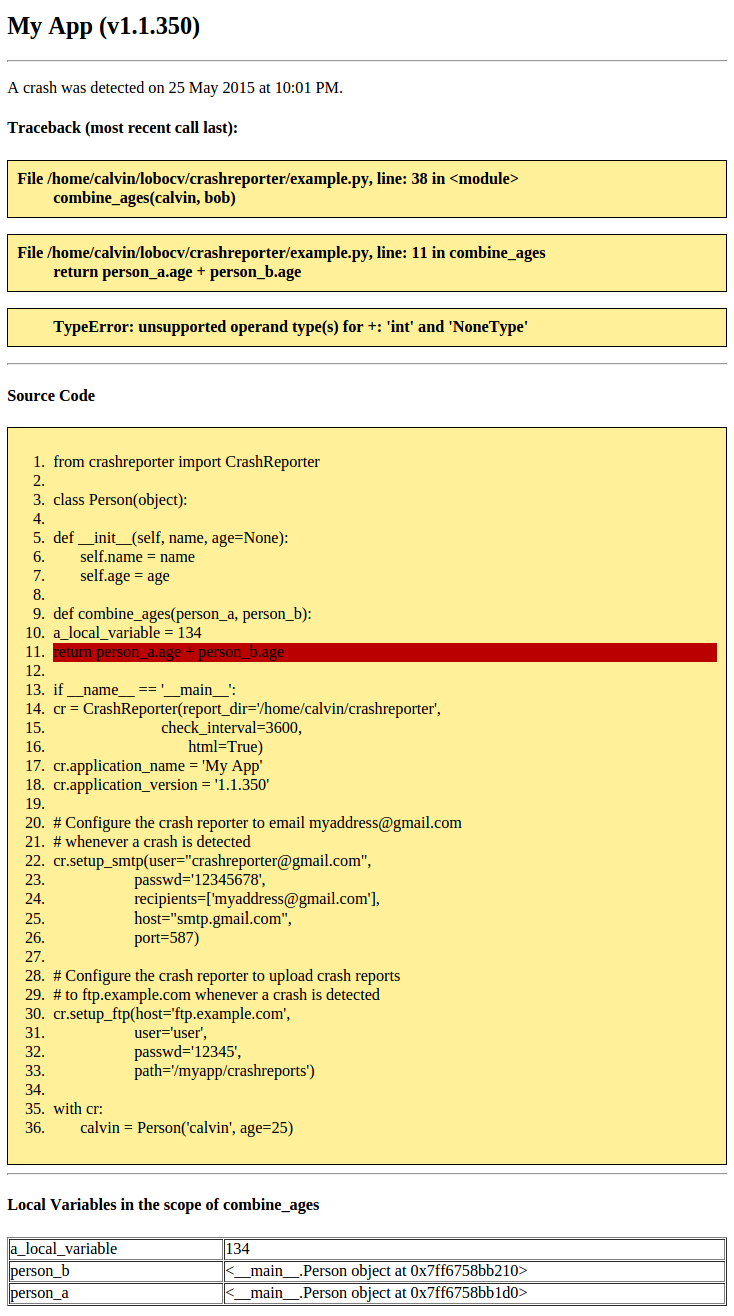
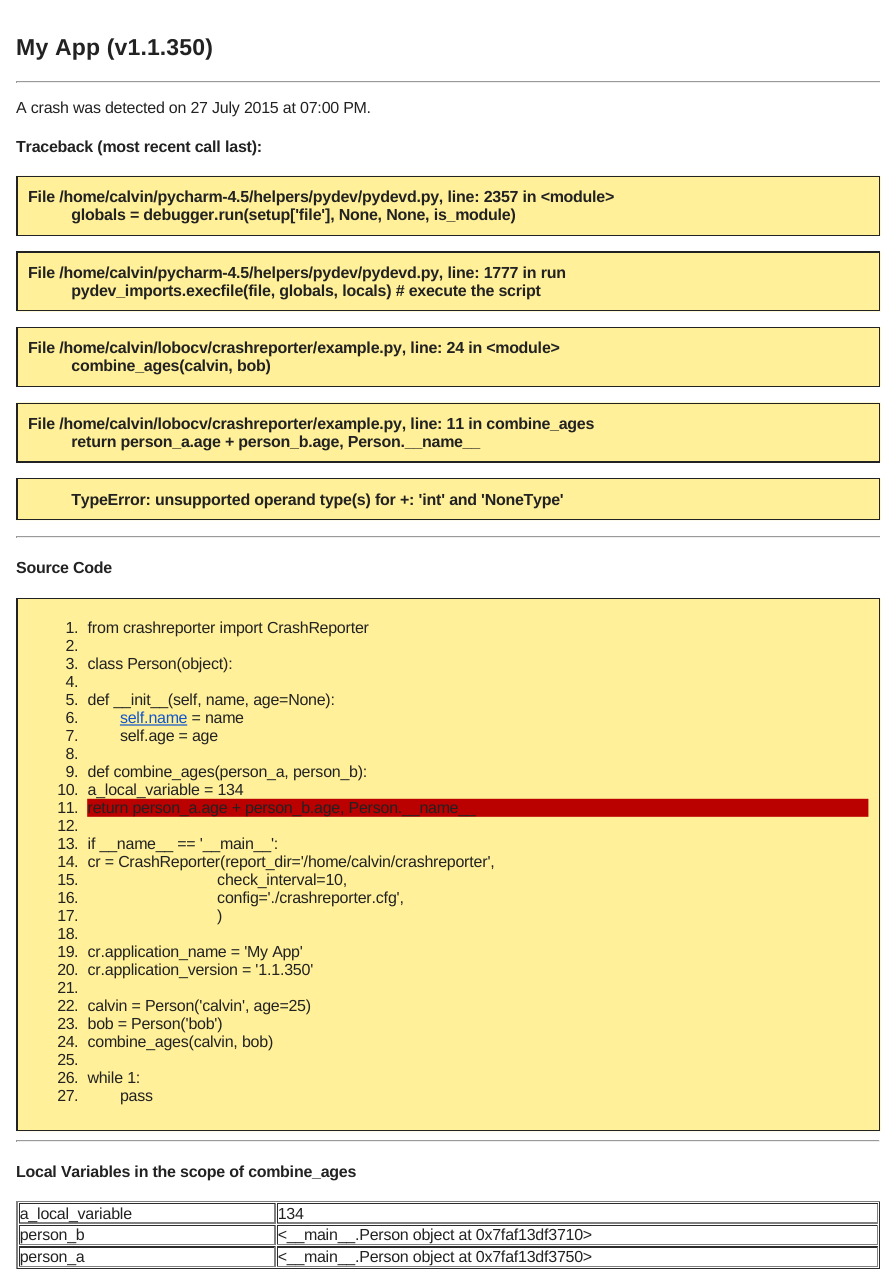
updated example.png and added html example

diff --git a/example_report.html b/example_report.html
@@ -1,0 +1,228 @@
+<!DOCTYPE html>
+<html>
+<head lang="en">
+    <meta charset="UTF-8">
+    <title></title>
+</head>
+<body>
+
+<div style="width: 800px;">
+    <h2>
+        
+            
+                My App (v1.1.350)
+            
+
+        
+    </h2>
+<hr>
+    <p>A crash was detected on 27 July 2015 at 07:02 PM.</p>
+</div>
+
+<div style="width: 800px;">
+    <h4>Traceback (most recent call last):</h4>
+    <b>
+    
+        <DL style="background-color:#FFF099; border-style:solid; border-width: 1px; padding: 10px;" >
+            File /home/calvin/pycharm-4.5/helpers/pydev/pydevd.py, line: 2357 in &lt;module&gt;
+            <DD>
+                globals = debugger.run(setup['file'], None, None, is_module)
+            </DD>
+        </DL>
+    
+        <DL style="background-color:#FFF099; border-style:solid; border-width: 1px; padding: 10px;" >
+            File /home/calvin/pycharm-4.5/helpers/pydev/pydevd.py, line: 1777 in run
+            <DD>
+                pydev_imports.execfile(file, globals, locals)  # execute the script
+            </DD>
+        </DL>
+    
+        <DL style="background-color:#FFF099; border-style:solid; border-width: 1px; padding: 10px;" >
+            File /home/calvin/lobocv/crashreporter/example.py, line: 24 in &lt;module&gt;
+            <DD>
+                combine_ages(calvin, bob)
+            </DD>
+        </DL>
+    
+        <DL style="background-color:#FFF099; border-style:solid; border-width: 1px; padding: 10px;" >
+            File /home/calvin/lobocv/crashreporter/example.py, line: 11 in combine_ages
+            <DD>
+                return person_a.age + person_b.age, Person.__name__
+            </DD>
+        </DL>
+    
+        <DL style="background-color:#FFF099; border-style:solid; border-width: 1px; padding: 10px " >
+
+            <DD>
+                TypeError: unsupported operand type(s) for +: 'int' and 'NoneType'
+
+            </DD>
+        </DL>
+    </b>
+
+    <hr>
+
+    <h4>Source Code</h4>
+    <div style="background-color:#FFF099; border-style:solid; border-width: 1px; padding: 10px;">
+        <ol start="1">
+            <li style="padding-left"> from crashreporter import CrashReporter
+</li>
+            
+                
+                    <li style="padding-left: -30px;">
+</li>
+                
+            
+                
+                    <li style="padding-left: -30px;">class Person(object):
+</li>
+                
+            
+                
+                    <li style="padding-left: -30px;">
+</li>
+                
+            
+                
+                    <li style="padding-left: 0px;">def __init__(self, name, age=None):
+</li>
+                
+            
+                
+                    <li style="padding-left: 30px;">self.name = name
+</li>
+                
+            
+                
+                    <li style="padding-left: 30px;">self.age = age
+</li>
+                
+            
+                
+                    <li style="padding-left: -30px;">
+</li>
+                
+            
+                
+                    <li style="padding-left: -30px;">def combine_ages(person_a, person_b):
+</li>
+                
+            
+                
+                    <li style="padding-left: 0px;">a_local_variable = 134
+</li>
+                
+            
+                
+                    <li style="background-color:#BB0000; padding-left: 0px;">return person_a.age + person_b.age, Person.__name__
+</li>
+                
+            
+                
+                    <li style="padding-left: -30px;">
+</li>
+                
+            
+                
+                    <li style="padding-left: -30px;">if __name__ == '__main__':
+</li>
+                
+            
+                
+                    <li style="padding-left: 0px;">cr = CrashReporter(report_dir='/home/calvin/crashreporter',
+</li>
+                
+            
+                
+                    <li style="padding-left: 120px;">   check_interval=10,
+</li>
+                
+            
+                
+                    <li style="padding-left: 120px;">   config='./crashreporter.cfg',
+</li>
+                
+            
+                
+                    <li style="padding-left: 120px;">   )
+</li>
+                
+            
+                
+                    <li style="padding-left: -30px;">
+</li>
+                
+            
+                
+                    <li style="padding-left: 0px;">cr.application_name = 'My App'
+</li>
+                
+            
+                
+                    <li style="padding-left: 0px;">cr.application_version = '1.1.350'
+</li>
+                
+            
+                
+                    <li style="padding-left: -30px;">
+</li>
+                
+            
+                
+                    <li style="padding-left: 0px;">calvin = Person('calvin', age=25)
+</li>
+                
+            
+                
+                    <li style="padding-left: 0px;">bob = Person('bob')
+</li>
+                
+            
+                
+                    <li style="padding-left: 0px;">combine_ages(calvin, bob)
+</li>
+                
+            
+                
+                    <li style="padding-left: -30px;">
+</li>
+                
+            
+                
+                    <li style="padding-left: 0px;">while 1:
+</li>
+                
+            
+                
+                    <li style="padding-left: 30px;">pass</li>
+                
+            
+        </ol>
+    </div>
+
+    <hr>
+
+    <h4>Local Variables in the scope of combine_ages</h4>
+    <table border="1" style="width:800px">
+        
+            <tr>
+                <td style="width:30%">a_local_variable</td>
+                <td>134</td>
+            </tr>
+        
+            <tr>
+                <td style="width:30%">person_b</td>
+                <td>&lt;__main__.Person object at 0x7faf13df3710&gt;</td>
+            </tr>
+        
+            <tr>
+                <td style="width:30%">person_a</td>
+                <td>&lt;__main__.Person object at 0x7faf13df3750&gt;</td>
+            </tr>
+        
+    </table>
+
+</div>
+
+</body>
+</html>
